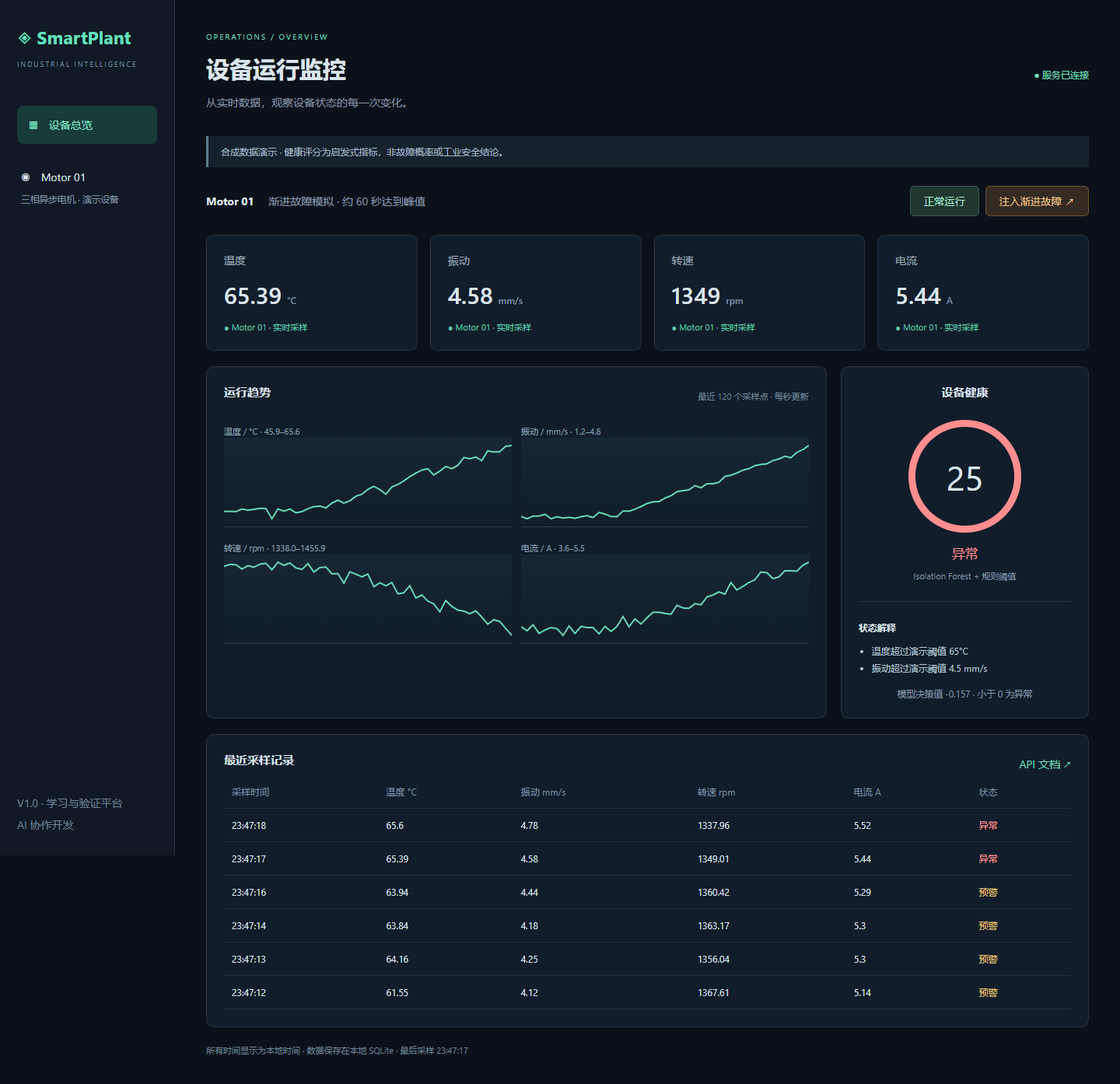
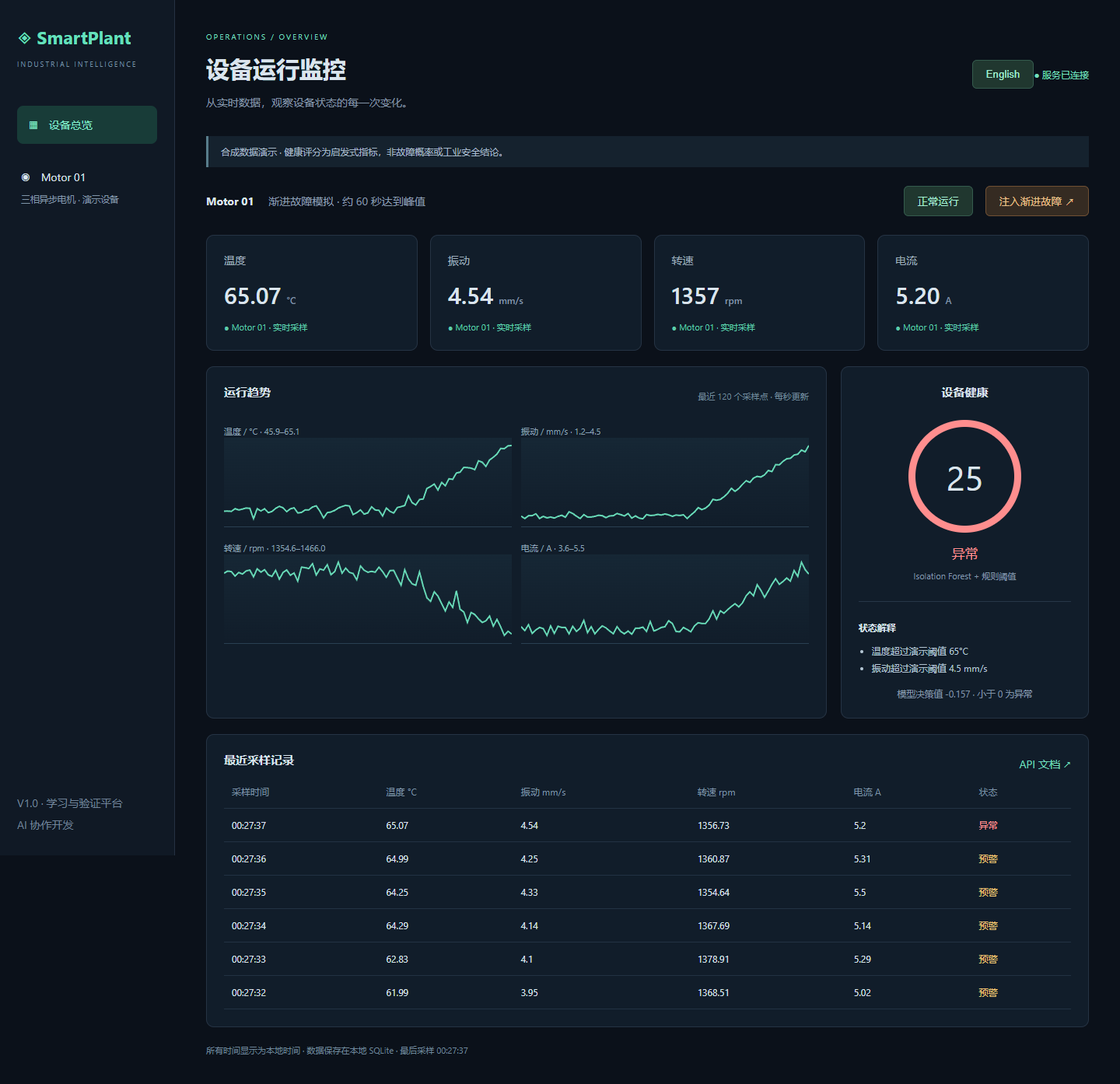
Add Chinese and English language switching, documentation and screenshots
Preserve Chinese support, remember browser language choice, and translate live status and fault explanations. Validated with pytest and real browser checks.

diff --git a/smartplant/static/app.js b/smartplant/static/app.js
@@ -1,23 +1,23 @@
-const fields=[['temperature','温度','°C'],['vibration','振动','mm/s'],['rpm','转速','rpm'],['current','电流','A']];
-const labels={normal:'正常',warning:'预警',critical:'异常'};
+const fields=[['temperature','Temperature','°C'],['vibration','Vibration','mm/s'],['rpm','Speed','rpm'],['current','Current','A']];
+const labels={normal:'Normal',warning:'Warning',critical:'Critical'};
 const $=id=>document.getElementById(id);
 fields.forEach(([key,label,unit])=>{
-  $('metrics').insertAdjacentHTML('beforeend',`<div class="metric"><label>${label}</label><strong><span id="${key}">—</span><small>${unit}</small></strong><i>● Motor 01 · 实时采样</i></div>`);
-  $('charts').insertAdjacentHTML('beforeend',`<div class="chart"><label>${label} / ${unit} <span id="range-${key}"></span></label><svg viewBox="0 0 400 115" preserveAspectRatio="none" role="img" aria-label="${label}趋势"><polyline id="line-${key}" fill="none" stroke="#68dcb9" stroke-width="2"/></svg></div>`);
+  $('metrics').insertAdjacentHTML('beforeend',`<div class="metric"><label>${label}</label><strong><span id="${key}">—</span><small>${unit}</small></strong><i>● Motor 01 · Live telemetry</i></div>`);
+  $('charts').insertAdjacentHTML('beforeend',`<div class="chart"><label>${label} / ${unit} <span id="range-${key}"></span></label><svg viewBox="0 0 400 115" preserveAspectRatio="none" role="img" aria-label="${label} trend"><polyline id="line-${key}" fill="none" stroke="#68dcb9" stroke-width="2"/></svg></div>`);
 });
-async function request(url,options){const r=await fetch(url,options);if(!r.ok)throw Error(`请求失败 (${r.status})`);return r.json();}
-document.querySelectorAll('button').forEach(button=>button.onclick=async()=>{
-  try{await request('/api/simulation',{method:'POST',headers:{'Content-Type':'application/json'},body:JSON.stringify({mode:button.dataset.mode})});await refresh();}
+async function request(url,options){const r=await fetch(url,options);if(!r.ok)throw Error(`Request failed (${r.status})`);return r.json();}
+document.querySelectorAll('button[data-mode]').forEach(button=>button.onclick=async()=>{
+  try{await request('/api/simulation',{method:'POST',headers:{'Content-Type':'application/json'},body:JSON.stringify({mode:button.dataset.mode})});await refresh();applyLanguage();}
   catch(e){$('error').textContent=e.message;}
 });
 async function refresh(){
   try{
     const [state,history]=await Promise.all([request('/api/status'),request('/api/history?limit=120')]);
-    $('connection').textContent=state.error?'● 采集异常':'● 服务已连接';
+    $('connection').textContent=state.error?'● Collection error':'● Connected';
     $('error').textContent=state.error||'';
-    $('mode').textContent=state.source==='modbus'?'Modbus TCP':state.mode==='normal'?'正常模拟':'渐进故障模拟 · 约 60 秒达到峰值';
-    document.querySelectorAll('button').forEach(b=>b.disabled=state.source!=='simulator');
-    const s=state.latest;if(!s)return;
+    $('mode').textContent=state.source==='modbus'?'Modbus TCP':state.mode==='normal'?'Normal simulation':'Progressive fault · Peaks in about 60 seconds';
+    document.querySelectorAll('button[data-mode]').forEach(b=>b.disabled=state.source!=='simulator');
+    const s=state.latest;if(!s){applyLanguage();return;}
     fields.forEach(([key])=>{
       $(key).textContent=s[key].toFixed(key==='rpm'?0:2);
       const values=history.map(x=>x[key]);if(!values.length)return;
@@ -27,10 +27,11 @@ async function refresh(){
     });
     $('gauge').textContent=s.health;$('gauge').style.borderColor=s.status==='normal'?'#4dccaa':s.status==='warning'?'#f3c775':'#ff8e8e';
     $('status').textContent=labels[s.status];$('status').className=s.status;
-    $('reasons').replaceChildren(...(s.reasons.length?s.reasons:['当前数据处于合成正常基线范围']).map(x=>{const li=document.createElement('li');li.textContent=x;return li;}));
-    $('margin').textContent=`模型决策值 ${s.anomaly_margin} · 小于 0 为异常`;
-    $('updated').textContent=`最后采样 ${new Date(s.timestamp).toLocaleTimeString()}`;
-    $('rows').replaceChildren(...history.slice(-6).reverse().map(row=>{const tr=document.createElement('tr');[new Date(row.timestamp).toLocaleTimeString(),row.temperature,row.vibration,row.rpm,row.current,labels[row.status]].forEach(value=>{const td=document.createElement('td');td.textContent=value;tr.append(td);});tr.lastChild.className=row.status;return tr;}));
-  }catch(e){$('connection').textContent='● 连接中断';$('error').textContent=e.message+'，将自动重试；当前显示可能已过期。';}
+    $('reasons').replaceChildren(...(s.reasons.length?s.reasons:['Readings are within the synthetic normal baseline.']).map(x=>{const li=document.createElement('li');li.textContent=x;return li;}));
+    $('margin').textContent=`Decision score ${s.anomaly_margin} · Below 0 indicates an anomaly`;
+    $('updated').textContent=`Last sample ${new Date(s.timestamp).toLocaleTimeString(language === 'zh' ? 'zh-CN' : 'en-GB')}`;
+    $('rows').replaceChildren(...history.slice(-6).reverse().map(row=>{const tr=document.createElement('tr');[new Date(row.timestamp).toLocaleTimeString(language === 'zh' ? 'zh-CN' : 'en-GB'),row.temperature,row.vibration,row.rpm,row.current,labels[row.status]].forEach(value=>{const td=document.createElement('td');td.textContent=value;tr.append(td);});tr.lastChild.className=row.status;return tr;}));
+  }catch(e){$('connection').textContent='● Disconnected';$('error').textContent=e.message+'. Retrying automatically; displayed data may be stale.';}
 }
-async function poll(){await refresh();setTimeout(poll,1000);}poll();
+applyLanguage();
+async function poll(){await refresh();applyLanguage();setTimeout(poll,1000);}poll();

diff --git a/smartplant/static/i18n.js b/smartplant/static/i18n.js
@@ -1,0 +1,36 @@
+const languageButton = document.getElementById('language');
+let language = 'en';
+try { language = localStorage.getItem('smartplant-language') || (navigator.language.startsWith('zh') ? 'zh' : 'en'); } catch {}
+if (!['en', 'zh'].includes(language)) language = 'en';
+const translations = [["Synthetic data demo · Health scores are heuristic indicators, not failure probabilities or safety assessments.", "合成数据演示 · 健康评分为启发式指标，非故障概率或工业安全结论。"], ["Collection failed. Retrying; showing the last successful sample, if available.", "采集失败，正在重试；显示的是最后一次成功数据"], ["Times shown in your local timezone · Stored locally in SQLite", "所有时间显示为本地时间 · 数据保存在本地 SQLite"], ["Follow every change in your equipment with live telemetry.", "从实时数据，观察设备状态的每一次变化。"], [". Retrying automatically; displayed data may be stale.", "，将自动重试；当前显示可能已过期。"], ["Readings are within the synthetic normal baseline.", "当前数据处于合成正常基线范围"], ["Vibration exceeds the demo threshold of 4.5 mm/s", "振动超过演示阈值 4.5 mm/s"], ["Temperature exceeds the demo threshold of 65°C", "温度超过演示阈值 65°C"], ["Progressive fault · Peaks in about 60 seconds", "渐进故障模拟 · 约 60 秒达到峰值"], ["Deviation from the synthetic normal baseline", "偏离合成正常基线"], ["Current exceeds the demo threshold of 5.5 A", "电流超过演示阈值 5.5 A"], ["Last 120 samples · Updated every second", "最近 120 个采样点 · 每秒更新"], ["Isolation Forest + threshold rules", "Isolation Forest + 规则阈值"], ["Three-phase motor · Demo device", "三相异步电机 · 演示设备"], ["Below 0 indicates an anomaly", "小于 0 为异常"], ["Built with AI collaboration", "AI 协作开发"], ["Inject progressive fault", "注入渐进故障"], ["Learning & validation", "学习与验证平台"], ["Equipment monitoring", "设备运行监控"], ["Waiting for samples", "等待采样"], ["Normal simulation", "正常模拟"], ["Normal operation", "正常运行"], ["Operating trends", "运行趋势"], ["Equipment health", "设备健康"], ["Waiting for data", "等待数据"], ["Collection error", "采集异常"], ["Status details", "状态解释"], ["Recent samples", "最近采样记录"], ["No samples yet", "尚未采样"], ["Live telemetry", "实时采样"], ["${label} trend", "${label}趋势"], ["Request failed", "请求失败"], ["Decision score", "模型决策值"], ["Disconnected", "连接中断"], ["Sample time", "采样时间"], ["Last sample", "最后采样"], ["Temperature", "温度"], ["Connecting", "正在连接"], ["Connected", "服务已连接"], ["Vibration", "振动"], ["Overview", "设备总览"], ["API docs", "API 文档"], ["Critical", "异常"], ["Loading", "加载中"], ["Current", "电流"], ["Warning", "预警"], ["Status", "状态"], ["Normal", "正常"], ["Speed", "转速"]];
+translations.push([' trend', '趋势']);
+function translateText(text, target) {
+  const pairs = (target === 'zh' ? translations : translations.map(([en, zh]) => [zh, en]))
+    .sort((a, b) => b[0].length - a[0].length);
+  // Replace each source span once; translated output is never translated again.
+  const escape = value => Array.from(value, char => "\\^$.*+?()[]{}|".includes(char) ? "\\" + char : char).join("");
+  const lookup = new Map(pairs);
+  const pattern = new RegExp(pairs.map(([key]) => escape(key)).join('|'), 'g');
+  return text.replace(pattern, match => lookup.get(match));
+}
+function applyLanguage() {
+  document.documentElement.lang = language === 'zh' ? 'zh-CN' : 'en';
+  const walker = document.createTreeWalker(document.body, NodeFilter.SHOW_TEXT);
+  while (walker.nextNode()) {
+    const node = walker.currentNode;
+    if (node.parentElement.closest('script, style, #language')) continue;
+    node.textContent = translateText(node.textContent, language);
+  }
+  document.querySelectorAll('[aria-label]').forEach(el => {
+    el.setAttribute('aria-label', translateText(el.getAttribute('aria-label'), language));
+  });
+  languageButton.textContent = language === 'zh' ? 'English' : '中文';
+  languageButton.setAttribute('aria-label', language === 'zh' ? 'Switch to English' : '切换到中文');
+}
+languageButton.onclick = () => {
+  language = language === 'zh' ? 'en' : 'zh';
+  try { localStorage.setItem('smartplant-language', language); } catch {}
+  applyLanguage();
+};
+applyLanguage();
+

diff --git a/smartplant/static/index.html b/smartplant/static/index.html
@@ -1,9 +1,9 @@
 <!doctype html>
-<html lang="zh-CN"><head><meta charset="utf-8"><meta name="viewport" content="width=device-width,initial-scale=1"><title>SmartPlant Monitor</title><link rel="stylesheet" href="/static/style.css"></head>
-<body><aside><div class="brand">◈ <b>SmartPlant</b><small>INDUSTRIAL INTELLIGENCE</small></div><nav>▦　设备总览</nav><p>◉　Motor 01<br><small>三相异步电机 · 演示设备</small></p><footer>V1.0 · 学习与验证平台<br>AI 协作开发</footer></aside>
-<main><header><div><span class="eyebrow">OPERATIONS / OVERVIEW</span><h1>设备运行监控</h1><p>从实时数据，观察设备状态的每一次变化。</p></div><span id="connection">● 正在连接</span></header>
-<div class="notice">合成数据演示 · 健康评分为启发式指标，非故障概率或工业安全结论。</div>
-<section class="toolbar"><div><b>Motor 01</b> <span id="mode">加载中</span></div><div><button data-mode="normal">正常运行</button><button class="fault" data-mode="progressive_fault">注入渐进故障 ↗</button></div></section>
+<html lang="en"><head><meta charset="utf-8"><meta name="viewport" content="width=device-width,initial-scale=1"><title>SmartPlant Monitor</title><link rel="stylesheet" href="/static/style.css"></head>
+<body><aside><div class="brand">◈ <b>SmartPlant</b><small>INDUSTRIAL INTELLIGENCE</small></div><nav>▦　Overview</nav><p>◉　Motor 01<br><small>Three-phase motor · Demo device</small></p><footer>V1.0 · Learning & validation<br>Built with AI collaboration</footer></aside>
+<main><header><div><span class="eyebrow">OPERATIONS / OVERVIEW</span><h1>Equipment monitoring</h1><p>Follow every change in your equipment with live telemetry.</p></div><button id="language" type="button">中文</button><span id="connection">● Connecting</span></header>
+<div class="notice">Synthetic data demo · Health scores are heuristic indicators, not failure probabilities or safety assessments.</div>
+<section class="toolbar"><div><b>Motor 01</b> <span id="mode">Loading</span></div><div><button data-mode="normal">Normal operation</button><button class="fault" data-mode="progressive_fault">Inject progressive fault ↗</button></div></section>
 <p id="error" role="alert"></p><section class="metrics" id="metrics"></section>
-<section class="grid"><article><div class="title"><h2>运行趋势</h2><span>最近 120 个采样点 · 每秒更新</span></div><div id="charts"></div></article><article class="health"><h2>设备健康</h2><div id="gauge">—</div><div id="status">等待采样</div><p>Isolation Forest + 规则阈值</p><hr><h3>状态解释</h3><ul id="reasons"><li>等待数据</li></ul><small id="margin"></small></article></section>
-<article class="history"><div class="title"><h2>最近采样记录</h2><a href="/docs" target="_blank" rel="noopener">API 文档 ↗</a></div><div class="table-wrap"><table><thead><tr><th>采样时间</th><th>温度 °C</th><th>振动 mm/s</th><th>转速 rpm</th><th>电流 A</th><th>状态</th></tr></thead><tbody id="rows"></tbody></table></div></article><footer>所有时间显示为本地时间 · 数据保存在本地 SQLite · <span id="updated">尚未采样</span></footer></main><script src="/static/app.js"></script></body></html>
+<section class="grid"><article><div class="title"><h2>Operating trends</h2><span>Last 120 samples · Updated every second</span></div><div id="charts"></div></article><article class="health"><h2>Equipment health</h2><div id="gauge">—</div><div id="status">Waiting for samples</div><p>Isolation Forest + threshold rules</p><hr><h3>Status details</h3><ul id="reasons"><li>Waiting for data</li></ul><small id="margin"></small></article></section>
+<article class="history"><div class="title"><h2>Recent samples</h2><a href="/docs" target="_blank" rel="noopener">API docs ↗</a></div><div class="table-wrap"><table><thead><tr><th>Sample time</th><th>Temperature °C</th><th>Vibration mm/s</th><th>Speed rpm</th><th>Current A</th><th>Status</th></tr></thead><tbody id="rows"></tbody></table></div></article><footer>Times shown in your local timezone · Stored locally in SQLite · <span id="updated">No samples yet</span></footer></main><script src="/static/i18n.js"></script><script src="/static/app.js"></script></body></html>

diff --git a/smartplant/static/style.css b/smartplant/static/style.css
@@ -1,1 +1,4 @@
 :root{font-family:Inter,"Segoe UI","Microsoft YaHei",sans-serif;color:#dbe5ed;background:#0b111a;font-size:14px}*{box-sizing:border-box}body{margin:0;display:flex}aside{width:225px;position:fixed;height:100vh;background:#101925;border-right:1px solid #253142;padding:32px 22px}.brand{font-size:23px;color:#65e0bd}.brand small{display:block;font-size:9px;letter-spacing:2px;margin-top:12px;color:#7892a5}nav{margin-top:48px;background:#183c38;padding:15px;border-radius:8px;color:#81e8c9}aside p{line-height:2;padding:15px 5px}small{color:#8195a8}aside footer{position:absolute;bottom:25px;line-height:2;color:#718399}main{margin-left:225px;padding:36px 40px;width:calc(100% - 225px);max-width:1800px}header,.toolbar,.title{display:flex;justify-content:space-between;align-items:center}.eyebrow{font-size:10px;letter-spacing:2px;color:#75dcbf}h1{font-size:30px;margin:13px 0}header p{color:#8496a9}#connection{color:#72dfbd;font-size:12px}.notice{border-left:3px solid #587d8b;background:#15222e;padding:12px 16px;margin:20px 0;color:#a5b8c8;font-size:12px}.toolbar{margin:24px 0}.toolbar span{margin-left:15px;color:#899caf}button{cursor:pointer;background:#20372f;color:#a5f0d5;border:1px solid #345b4d;border-radius:6px;padding:10px 17px;margin-left:8px}button.fault{background:#352b22;border-color:#705033;color:#eac08b}button:disabled{opacity:.4;cursor:default}button:focus-visible{outline:2px solid white}.metrics{display:grid;grid-template-columns:repeat(4,1fr);gap:16px}.metric,article{border:1px solid #253344;background:#111d2a;border-radius:10px;padding:22px}.metric label{color:#9cabb9}.metric strong{display:block;font-size:30px;margin-top:15px;font-weight:500}.metric small{font-size:12px;margin-left:7px}.metric i{display:block;color:#5dcbaa;font-size:11px;font-style:normal;margin-top:14px}.grid{display:grid;grid-template-columns: minmax(0, 2.5fr) minmax(240px,1fr);gap:18px;margin:20px 0}h2{font-size:15px;margin:0 0 10px}.title span{font-size:11px;color:#71899b}#charts{display:grid;grid-template-columns:1fr 1fr;gap:12px;margin-top:20px}.chart{min-width:0}.chart label{color:#8ba1b4;font-size:11px}.chart svg{width:100%;height:115px;background:linear-gradient(#162735,#111d2a);border-bottom:1px solid #2a4052}.health{text-align:center}#gauge{border:9px solid #4dccaa;border-radius:50%;height:145px;width:145px;margin:26px auto 15px;display:grid;place-items:center;font-size:44px}#status{font-size:17px}.health p{font-size:11px;color:#8398ab}hr{border:0;border-top:1px solid #273748;margin:25px 0}.health h3,.health ul{text-align:left;font-size:12px}.health ul{padding-left:17px;color:#b3c5d3;line-height:1.8}table{width:100%;border-collapse:collapse;text-align:left;font-size:12px}th{color:#7d93a6;font-weight:400}td,th{padding:13px 10px;border-bottom:1px solid #223243}a{color:#72dbbd;text-decoration:none}.normal{color:#6bdfb6}.warning{color:#f3c775}.critical{color:#ff8e8e}main footer{color:#6f869a;font-size:11px;margin-top:22px}#error{color:#ffb6a0}.table-wrap{overflow:auto}@media(max-width:1000px){aside{width:175px;padding:25px 12px}main{margin-left:175px;width:calc(100% - 175px);padding:25px 20px}.metrics{grid-template-columns:1fr 1fr}.grid{grid-template-columns:1fr}}@media(max-width:600px){aside{display:none}main{margin:0;width:100%;padding:20px 12px}header{align-items:start}.toolbar{display:block}.toolbar>div{margin:12px 0}button{margin:0 6px 0 0}#charts{grid-template-columns:1fr}.title span{display:none}}
+
+header{flex-wrap:wrap;gap:14px}header>div{flex:1 1 300px}.toolbar{gap:16px;flex-wrap:wrap}.toolbar>div:last-child{display:flex;flex-wrap:wrap;gap:8px}#connection{white-space:nowrap}#language{white-space:nowrap}td,th{white-space:nowrap}.title{gap:12px}.title span{text-align:right}@media(max-width:600px){header>div{flex-basis:100%}.toolbar span{display:block;margin:8px 0}.metric{padding:16px}.metric strong{font-size:26px}}
+

diff --git a/smartplant/detection.py b/smartplant/detection.py
@@ -15,9 +15,9 @@ class Detector:
     def evaluate(self, values):
         margin = float(self.model.decision_function([[values[k] for k in FIELDS]])[0])
         reasons = []
-        for key, threshold, label in [("temperature", 65, "温度超过演示阈值 65°C"),
-                                      ("vibration", 4.5, "振动超过演示阈值 4.5 mm/s"),
-                                      ("current", 5.5, "电流超过演示阈值 5.5 A")]:
+        for key, threshold, label in [("temperature", 65, "Temperature exceeds the demo threshold of 65°C"),
+                                      ("vibration", 4.5, "Vibration exceeds the demo threshold of 4.5 mm/s"),
+                                      ("current", 5.5, "Current exceeds the demo threshold of 5.5 A")]:
             if values[key] > threshold:
                 reasons.append(label)
         risk = float(np.clip(-margin / 0.25, 0, 1))
@@ -25,4 +25,4 @@ class Detector:
             risk = max(risk, 0.75)
         status = "critical" if reasons else "warning" if margin < 0 else "normal"
         return {"anomaly_margin": round(margin, 4), "health": round(100*(1-risk)),
-                "status": status, "reasons": reasons or (["偏离合成正常基线"] if margin < 0 else [])}
+                "status": status, "reasons": reasons or (["Deviation from the synthetic normal baseline"] if margin < 0 else [])}

diff --git a/smartplant/app.py b/smartplant/app.py
@@ -50,7 +50,7 @@ def create_app(db_path=None, interval=1.0, source=None):
                     app.state.error = None
                 except Exception:
                     logging.exception("Telemetry collection failed")
-                    app.state.error = "采集失败，正在重试；显示的是最后一次成功数据"
+                    app.state.error = "Collection failed. Retrying; showing the last successful sample, if available."
                 await asyncio.sleep(interval)
 
         task = asyncio.create_task(collect())

diff --git a/README.en.md b/README.en.md
@@ -1,0 +1,174 @@
+# SmartPlant Monitor
+
+[中文](README.md) | **English**
+
+Industrial equipment monitoring and anomaly detection, built with AI collaboration for automation engineering practice.
+
+Simulate motor temperature, vibration, speed, and current; collect data, persist it in SQLite, and visualize anomalies detected with Isolation Forest and demonstration thresholds. No physical hardware is required. A standalone Modbus TCP simulator and client are included.
+
+## Quick start
+
+Python 3.13 is recommended; 3.12 is supported. Clone or download the repository and open a terminal in its directory:
+
+```sh
+git clone https://github.com/IISophieII/smartplant-monitor.git
+cd smartplant-monitor
+```
+
+Windows PowerShell:
+
+```powershell
+python -m venv .venv
+.\.venv\Scripts\python.exe -m pip install -e '.[dev]'
+.\.venv\Scripts\python.exe -m uvicorn smartplant.app:app --host 127.0.0.1 --port 8000
+```
+
+Alternatively run `./Start-SmartPlant.ps1`, which creates the environment and installs dependencies. When Python is missing from PATH, this launcher attempts to use a bundled Codex runtime if available.
+
+macOS / Linux:
+
+```sh
+python3 -m venv .venv
+. .venv/bin/activate
+pip install -e '.[dev]'
+uvicorn smartplant.app:app --host 127.0.0.1 --port 8000
+```
+
+Open [the dashboard](http://127.0.0.1:8000). Select **English** or **中文** at the top of the page; your choice is remembered in this browser. The initial language follows your browser preference. API documentation is at `/docs`. Press Ctrl+C in the terminal to stop the server.
+
+Use a single Uvicorn worker: each worker starts its own collector. Startup trains a fixed-seed synthetic baseline, then collects approximately one sample per second.
+
+## Try the demo
+
+1. Watch **Normal operation** for about 20 seconds.
+2. Click **Inject progressive fault**. Readings deteriorate over about 60 seconds, producing model warnings and threshold violations.
+3. Click **Normal operation** to restore normal readings. The charts retain the fault episode.
+4. Inspect `/api/history?limit=120`. Stored history survives restarts.
+
+![English dashboard](docs/screenshots/dashboard-en.png)
+
+## Architecture
+
+```mermaid
+flowchart LR
+  A[Built-in simulator] --> C[Collection loop / 1 Hz]
+  B[Standalone Modbus TCP device] -->|Registers 0..3| M[PyModbus adapter]
+  M --> C
+  C --> D[Isolation Forest + threshold rules]
+  D --> E[(SQLite / WAL)]
+  D --> F[Latest sample cache]
+  E --> G[FastAPI history API]
+  F --> H[FastAPI status API]
+  G --> I[Bilingual HTML / JS / SVG dashboard]
+  H --> I
+```
+
+The frontend uses native SVG charts, without CDN or build dependencies. After installation, the demo runs offline. Status and history are polled once per second.
+
+| Module | Responsibility |
+|---|---|
+| `smartplant/app.py` | Application lifecycle, collector, API |
+| `smartplant/simulator.py` | Normal and progressive-fault telemetry |
+| `smartplant/modbus.py` | TCP device server and client adapter |
+| `smartplant/detection.py` | Anomaly detection and health scoring |
+| `smartplant/storage.py` | SQLite persistence and retention |
+| `smartplant/static/` | Dashboard, language switching, styles, charts |
+| `tests/` | Model, persistence, API, and TCP integration tests |
+
+## Modbus TCP
+
+Activate the virtual environment in both terminals: `.\.venv\Scripts\Activate.ps1` on Windows or `. .venv/bin/activate` on macOS/Linux.
+
+Start the device in the first terminal:
+
+```sh
+python -m smartplant.modbus
+```
+
+Start the monitor in a second PowerShell terminal:
+
+```powershell
+$env:DATA_SOURCE='modbus'
+$env:MODBUS_HOST='127.0.0.1'
+python -m uvicorn smartplant.app:app --host 127.0.0.1 --port 8000
+```
+
+macOS/Linux equivalent:
+
+```sh
+DATA_SOURCE=modbus MODBUS_HOST=127.0.0.1 python -m uvicorn smartplant.app:app --host 127.0.0.1 --port 8000
+```
+
+Default port: 5020. Set `MODBUS_PORT` in both processes to change it. Set `SIMULATION_MODE=progressive_fault` before starting the device to inject a fault. Dashboard mode controls are disabled for external Modbus sources. Failed reads display an error, retain the last successful sample, and retry.
+
+| Holding register (zero-based) | Reading | Encoding |
+|---|---|---|
+| 0 | Temperature °C | uint16 / 100 |
+| 1 | Vibration mm/s | uint16 / 100 |
+| 2 | Speed rpm | uint16 |
+| 3 | Current A | uint16 / 100 |
+
+Device ID: 1. Function code: 03. Negative temperatures, write control, and other register layouts are not supported. See the [PyModbus client documentation](https://pymodbus.readthedocs.io/en/v3.11.0/source/client.html).
+
+## Docker Compose
+
+```sh
+docker compose up --build
+```
+
+For the full Modbus chain in PowerShell:
+
+```powershell
+$env:DATA_SOURCE='modbus'
+docker compose --profile modbus up --build
+```
+
+macOS/Linux: `DATA_SOURCE=modbus docker compose --profile modbus up --build`.
+
+SQLite uses a persistent named volume. The dashboard port binds to localhost. This is a trusted local demo without authentication; add authentication and access controls before exposing it publicly. Docker files are provided but have not been executed locally.
+
+## API and storage
+
+| Method | Endpoint | Purpose |
+|---|---|---|
+| GET | `/api/health` | Service status, collection error, sample readiness |
+| GET | `/api/status` | Latest successful sample, source, mode, collection error |
+| GET | `/api/history?limit=120` | Latest N samples, chronological order; N = 1..3600 |
+| POST | `/api/simulation` | `{"mode":"normal"}` or `{"mode":"progressive_fault"}` |
+
+API identifiers are language-neutral; explanation/error text is English. The dashboard translates those messages for Chinese users. Timestamps use UTC in storage and local time in the dashboard. SQLite retains 86,400 samples (roughly a day at 1 Hz). Set `DATABASE_PATH` to override `data/smartplant.db`. V1 does not include time-range queries, alarm acknowledgement, or MQTT.
+
+## Detection limitations
+
+Isolation Forest trains on 1,500 synthetic normal samples with fixed seeds and `contamination=0.02`. A negative decision score indicates an anomaly. Health is `100 × (1 - clip(-margin / 0.25, 0, 1))`. Temperature above 65°C, vibration above 4.5 mm/s, or current above 5.5 A triggers Critical status and caps health at 25. Thresholds are demonstration settings, not industry standards.
+
+Synthetic faults intentionally differ from training data; passing these tests does not establish real-world accuracy. Health is not failure probability. Normal data can occasionally trigger warnings. Real fault labels, false-alarm evaluation, operating-condition normalization, temporal features, and remaining-life prediction are not implemented. Future validation needs independent real data split by device and time.
+
+## Tests
+
+```sh
+pip install -e '.[dev]'
+ruff check .
+pytest -q
+```
+
+Tests cover fault progression/recovery, persistence, API validation, failed and recovered collection, mode-control restrictions, and actual TCP reads. GitHub Actions checks Python 3.12 and 3.13. See [validation notes](docs/VALIDATION.en.md).
+
+`requirements-lock.txt` captures the original Windows/Python 3.12 validation dependencies. Install it before the project to reproduce that environment. Other environments still require independent checks.
+
+## Roadmap
+
+- V2: MQTT, multiple devices, alarm acknowledgement, time-range queries, optional InfluxDB.
+- V3: Real sensors/PLCs, rolling-window features, FFT, model versioning, evaluation by operating condition.
+
+The source `sample()` interface, detector, and storage module provide extension boundaries. These roadmap items are not current features.
+
+## AI collaboration and portfolio use
+
+The owner defined requirements and demonstration goals. Code, documentation, and automated tests were produced and iterated with AI assistance. Describe your actual contribution after personally running, understanding, and validating the project; do not claim independent authorship of all code.
+
+After completing those activities, adapt this example to your involvement:
+
+> Planned and developed an industrial equipment monitoring demo with AI assistance, using FastAPI, Modbus TCP, SQLite, and Isolation Forest for simulated motor telemetry, historical queries, and anomaly visualization. Participated in fault-injection testing, result validation, and technical documentation.
+
+Be ready to explain register scaling, collection failures, training/test differences, score limitations, and single-process deployment.

diff --git a/docs/VALIDATION.en.md b/docs/VALIDATION.en.md
@@ -1,0 +1,32 @@
+# Validation record
+
+[中文](VALIDATION.md) | **English**
+
+Checks were performed by the Codex AI collaborator, not claimed as personal acceptance testing by the project owner.
+
+## Bilingual update (September 13, 2026)
+
+Six local pytest tests, Ruff, and JavaScript syntax checks passed. A real browser verified the English default, Chinese switching, persistence after reload, bilingual fault explanations, and recovery. Both languages passed the 390px mobile overflow check with no JavaScript errors. Actual screenshots were refreshed in both languages.
+
+## Initial V1 checks
+
+- Windows / Python 3.12.14: six pytest tests passed; Ruff and JavaScript syntax checks passed.
+- A separate PyModbus server and client exchanged four registers over real TCP and verified expected ranges and scaling.
+- Headless Edge tested a running Uvicorn service: live readings, progressive fault injection, Critical status, and recovery.
+- Desktop and 390px mobile layouts were checked; no page-level horizontal overflow or JavaScript errors were observed.
+- GitHub Actions passed Python 3.12 and 3.13 on Ubuntu: [initial run](https://github.com/IISophieII/smartplant-monitor/actions/runs/34704636127).
+
+The first pytest attempt encountered an inaccessible system temporary directory. A writable workspace `--basetemp` resolved it without changing assertions. A local Starlette/AnyIO deprecation warning and GitHub Actions Node.js runtime warnings did not fail the checks.
+
+## Limitations
+
+Docker is unavailable locally, so the image and Compose stack have not been executed here. No real PLC, motor, or sensor was connected. No real-world accuracy, false-alarm rate, performance benchmark, or production reliability claim is made.
+
+## Recheck
+
+```sh
+pytest -q
+ruff check .
+```
+
+If the default temporary directory is inaccessible, specify a new writable directory with `--basetemp=./work-test-temp`. Pytest manages this directory; do not point it at important existing files.

diff --git a/docs/VALIDATION.md b/docs/VALIDATION.md
@@ -1,5 +1,13 @@
 # V1 验证记录
 
+**中文** | [English](VALIDATION.en.md)
+
+## 双语版本验证（2026-09-13）
+
+- 本地 6 项 pytest 测试通过，Ruff 与 JavaScript 语法检查通过。
+- 实际浏览器验证英文默认界面、中文切换、刷新后记住语言、双语故障解释及恢复操作。
+- 两种语言的 390px 手机布局无页面横向溢出，无 JavaScript 运行错误；中英文实际截图已更新。
+
 验证日期：2026-09-12。执行者：Codex AI 协作代理；不代表用户已经亲自完成验收。
 
 ## 已实际完成
@@ -32,4 +40,3 @@ ruff check .
 ```
 
 若默认临时目录不可访问，可指定一个可写的新目录，例如 `pytest -q --basetemp=./work-test-temp`。pytest 会管理这个临时目录，不要指向已有重要文件的目录。
-

diff --git a/README.md b/README.md
@@ -1,5 +1,9 @@
 # SmartPlant Monitor
 
+**中文** | [English](README.en.md)
+
+界面支持中文 / English 切换，默认跟随浏览器语言，并记住手动选择。英文使用者请阅读上方 English 文档。
+
 工业设备智能监控与异常检测平台 · V1
 
 面向自动化专业的软件工程实践项目：模拟工业电机的温度、振动、转速、电流，完成采集、持久化、异常检测和网页展示。无需 PLC 或传感器即可运行，也可通过真实 Modbus TCP 协议连接独立模拟设备。
